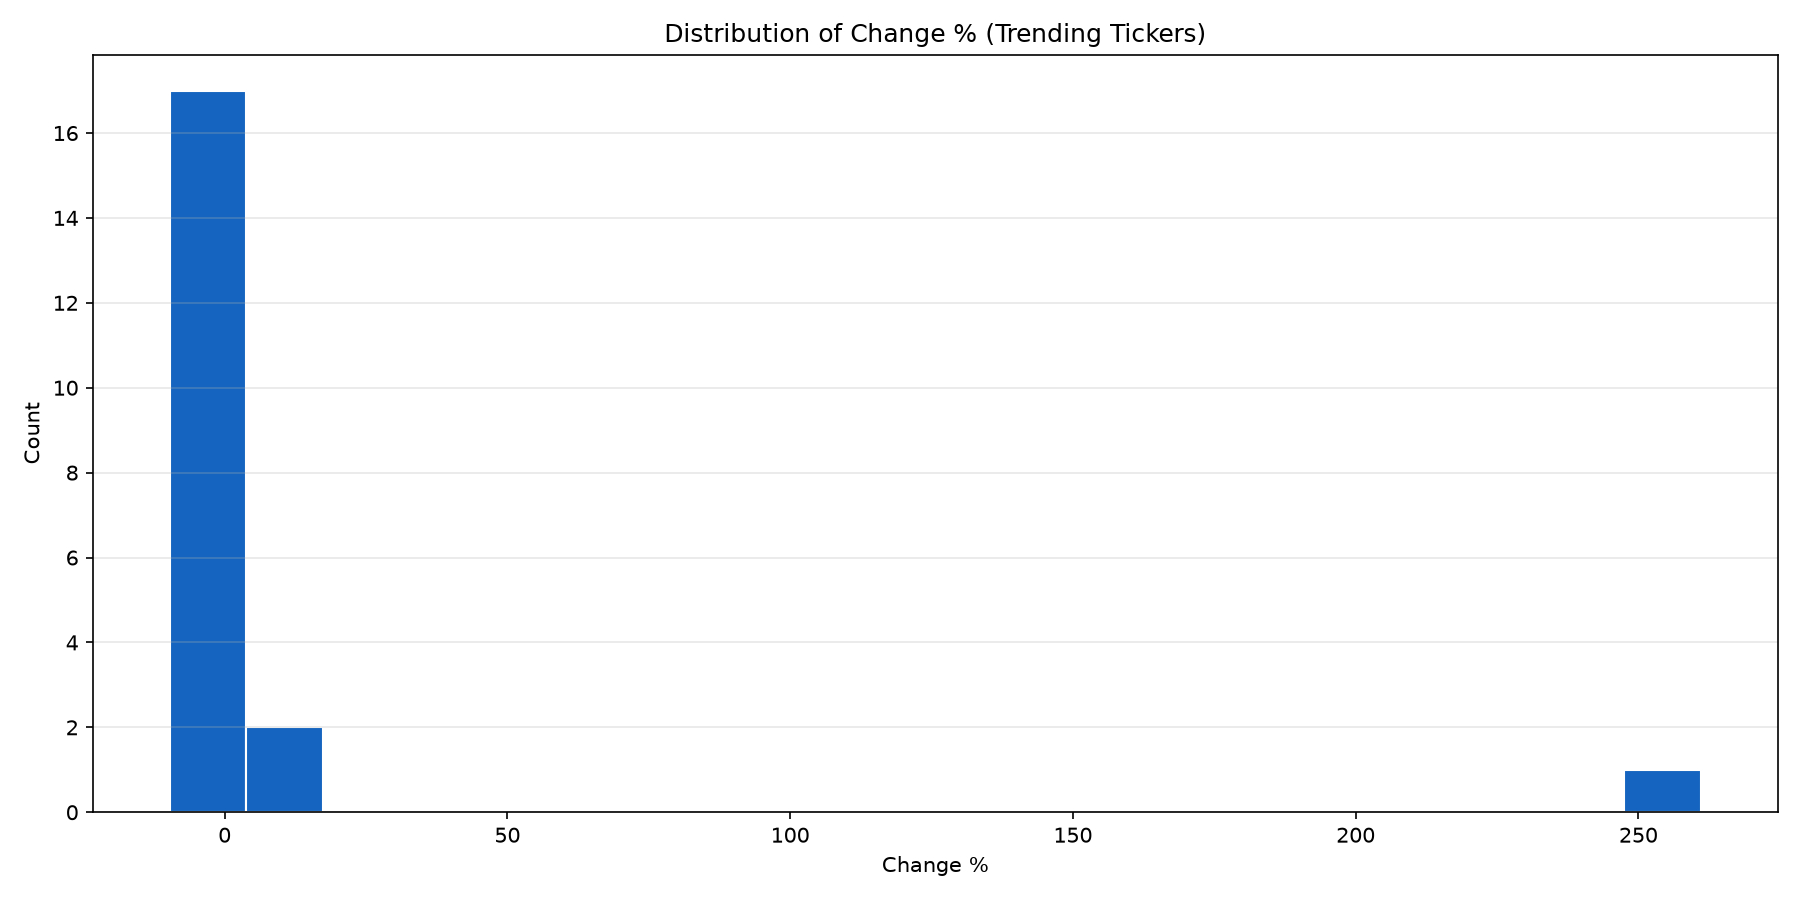
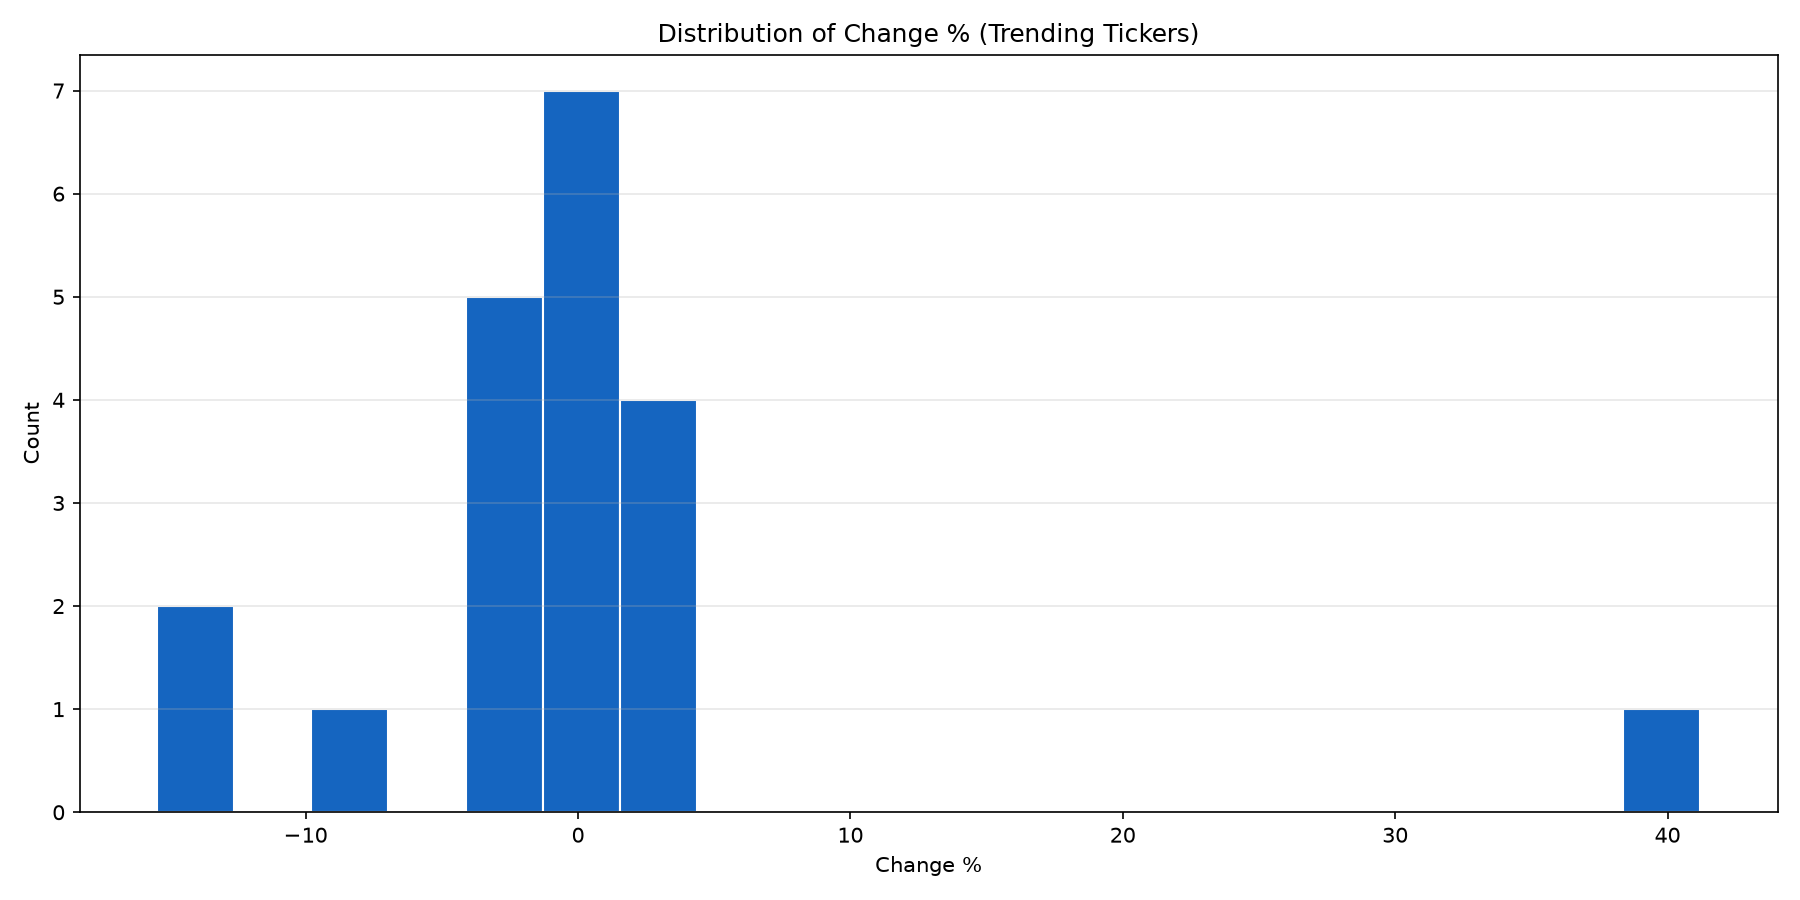
chore: daily metrics report update

diff --git a/README.md b/README.md
@@ -1,7 +1,7 @@
 # AI-Powered Real-Time Business Metrics Aggregator
 
 <!-- LAST_UPDATED_BADGE_START -->
-![Last Updated](https://img.shields.io/badge/Last%20Updated-2026--10--14%2013%3A11%20UTC-blue)
+![Last Updated](https://img.shields.io/badge/Last%20Updated-2026--10--15%2013%3A13%20UTC-blue)
 <!-- LAST_UPDATED_BADGE_END -->
 
 
@@ -146,27 +146,27 @@ This project demonstrates a full pipeline for ingesting, transforming, and analy
 <!-- DAILY_REPORT_START -->
 ## Daily Automated Market Summary
 
-- Last refresh (UTC): **2026-10-14 13:11:59**
+- Last refresh (UTC): **2026-10-15 13:13:37**
 - Tickers tracked: **20**
-- Average change: **+12.28%**
-- Median change: **-1.39%**
-- Top gainer: **JBDI (+261.05%)**
-- Top loser: **VSTM (-9.70%)**
+- Average change: **+0.30%**
+- Median change: **-0.61%**
+- Top gainer: **BSP (+41.20%)**
+- Top loser: **CRWV (-15.46%)**
 
 ### Top Movers
 
 | Symbol | Name | Price | Change % |
 |---|---|---:|---:|
-| JBDI | JBDI Holdings Limited | 3.43 | +261.05% |
-| RGC | Regencell Bioscience Holdings L | 8.19 | +14.87% |
-| FRMI | Fermi Inc. | 3.72 | +14.46% |
-| SKYD | Skydance Corporation | 9.27 | +1.20% |
-| ASML.AS | ASML HOLDING | 1517.40 | +0.52% |
-| GOOGL | Alphabet Inc. | 353.78 | +0.30% |
-| GOOG | Alphabet Inc. | 349.52 | +0.16% |
-| FAST | Fastenal Company | 51.43 | -0.12% |
-| STT | State Street Corporation | 174.10 | -0.47% |
-| BAC | Bank of America Corporation | 53.96 | -1.14% |
+| BSP | Bending Spoons S.p.A. | 53.46 | +41.20% |
+| OPK | Opko Health, Inc. | 1.37 | +3.79% |
+| WMT | Walmart Inc. | 116.16 | +3.46% |
+| PFE | Pfizer, Inc. | 29.21 | +2.96% |
+| COST | Costco Wholesale Corporation | 982.00 | +2.87% |
+| IBRX | ImmunityBio, Inc. | 9.91 | +1.12% |
+| SCHW | Charles Schwab Corporation (The | 96.80 | +0.90% |
+| MRSH | Marsh | 178.40 | +0.79% |
+| TSMC34.SA | TAIWANSMFAC DRN | 271.45 | +0.00% |
+| PAG | Penske Automotive Group, Inc. | 194.79 | -0.45% |
 
 ### Daily Visuals
 
